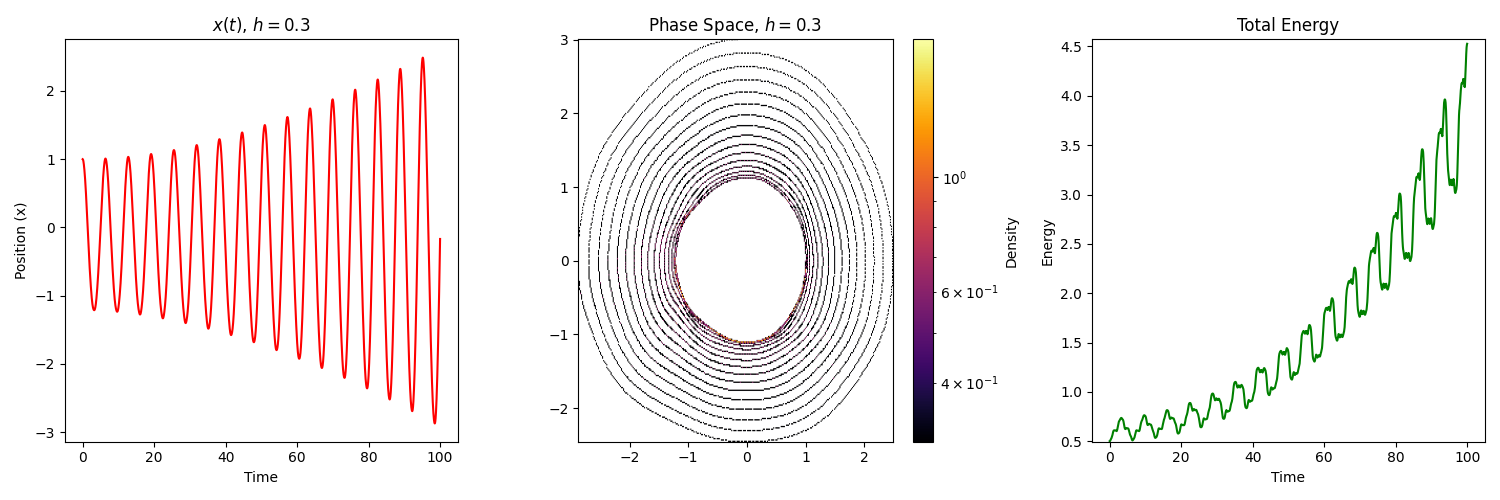
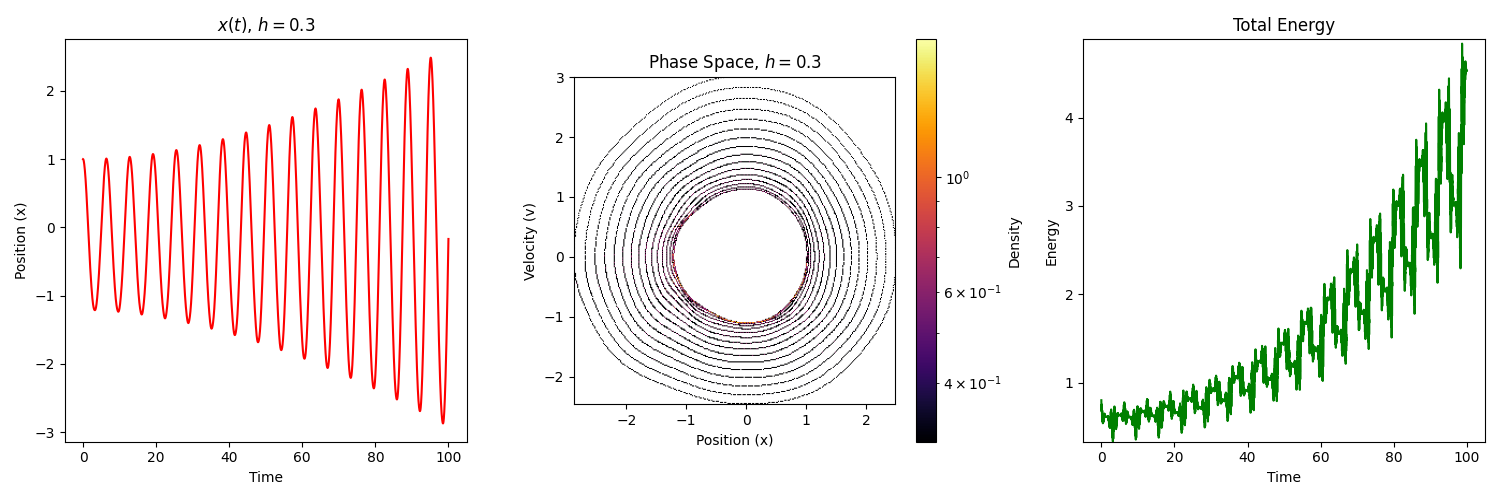
modified:   dev/h=0.3_Phase_Space.png modified:   dev/h=1_Phase_Space.png modified:   dev/weierstrass_parametric_oscillator.py

diff --git a/dev/weierstrass_parametric_oscillator.py b/dev/weierstrass_parametric_oscillator.py
@@ -4,10 +4,10 @@ from numba import njit
 from matplotlib.colors import LogNorm
 
 # Parameters
-omega0 = 1.0       # Natural frequency (set to 1 for circular phase space at h=0)
-h = 0.5            # Modulation strength (0 for testing, then try 0.3, 1.0)
-a = 0.5            # Weierstrass parameter (0 < a < 1)
-b = 7              # Weierstrass parameter (b odd, ab > 1 + 3π/2)
+omega0 = 1.0       # Natural frequency
+h = 1.0            # Modulation strength (0 to 1)
+a = 0.5            # Weierstrass amplitude decay (0 < a < 1)
+b = 7              # Weierstrass frequency scaling (odd integer ≥3)
 n_terms = 30       # Truncated series terms
 t_max = 100        # Simulation time
 dt = 0.01          # Time step
@@ -20,29 +20,36 @@ def weierstrass(t, a, b, n_terms):
         W += a**n * np.cos(b**n * t)
     return W
 
-# Parametric oscillator solver (Velocity Verlet)
+# Oscillator solver (returns x, v, W_vals)
 @njit
 def solve_oscillator(t, omega0, h, a, b, n_terms, dt):
     n_steps = len(t)
     x = np.zeros(n_steps)
     v = np.zeros(n_steps)
+    W_vals = np.zeros(n_steps)
     x[0], v[0] = 1.0, 0.0  # Initial conditions
     
     for i in range(1, n_steps):
         W = weierstrass(t[i-1], a, b, n_terms)
+        W_vals[i-1] = W
         x[i] = x[i-1] + v[i-1] * dt - 0.5 * (omega0**2 * (1 + h * W) * x[i-1]) * dt**2
         W_new = weierstrass(t[i], a, b, n_terms)
         v[i] = v[i-1] - 0.5 * (omega0**2 * (1 + h * W) * x[i-1] + omega0**2 * (1 + h * W_new) * x[i]) * dt
-    return x, v
+    
+    W_vals[-1] = weierstrass(t[-1], a, b, n_terms)
+    return x, v, W_vals
 
 # Time array
 t = np.arange(0, t_max, dt)
 
 # Solve system
-x, v = solve_oscillator(t, omega0, h, a, b, n_terms, dt)
+x, v, W = solve_oscillator(t, omega0, h, a, b, n_terms, dt)
+
+# Energy calculation
+E = 0.5 * (v**2 + omega0**2 * (1 + h * W) * x**2)
 
 # Visualization
-def plot_results(t, x, v, h):
+def plot_results(t, x, v, W, h):
     fig = plt.figure(figsize=(15, 5))
     
     # Time Series
@@ -52,25 +59,24 @@ def plot_results(t, x, v, h):
     plt.ylabel('Position (x)')
     plt.title(f'$x(t)$, $h={h}$')
     
-    # Phase Space (Direct Plot for h=0, Density for h>0)
+    # Phase Space
     plt.subplot(1, 3, 2)
     if h == 0:
         plt.plot(x, v, 'b', linewidth=0.5)
-        plt.xlabel('Position (x)')
-        plt.ylabel('Velocity (v)')
-        plt.axis('equal')  # Critical for circles
+        plt.axis('equal')
     else:
         hist, xedges, vedges = np.histogram2d(x, v, bins=300, density=True)
         plt.imshow(hist.T, extent=[xedges[0], xedges[-1], vedges[0], vedges[-1]], 
-                   origin='lower', aspect='auto', cmap='inferno', norm=LogNorm())
+                   origin='lower', aspect='equal', cmap='inferno', norm=LogNorm())
         plt.colorbar(label='Density')
+    plt.xlabel('Position (x)')
+    plt.ylabel('Velocity (v)')
     plt.title(f'Phase Space, $h={h}$')
     
-    # Energy Verification
+    # Energy
     plt.subplot(1, 3, 3)
-    E = 0.5 * (v**2 + omega0**2 * x**2)
     plt.plot(t, E, 'g')
-    plt.ylim(0.99 * np.min(E), 1.01 * np.max(E))
+    plt.ylim(0.99*np.min(E), 1.01*np.max(E))
     plt.xlabel('Time')
     plt.ylabel('Energy')
     plt.title('Total Energy')
@@ -79,4 +85,4 @@ def plot_results(t, x, v, h):
     plt.show()
 
 # Plot results
-plot_results(t, x, v, h)
+plot_results(t, x, v, W, h)
